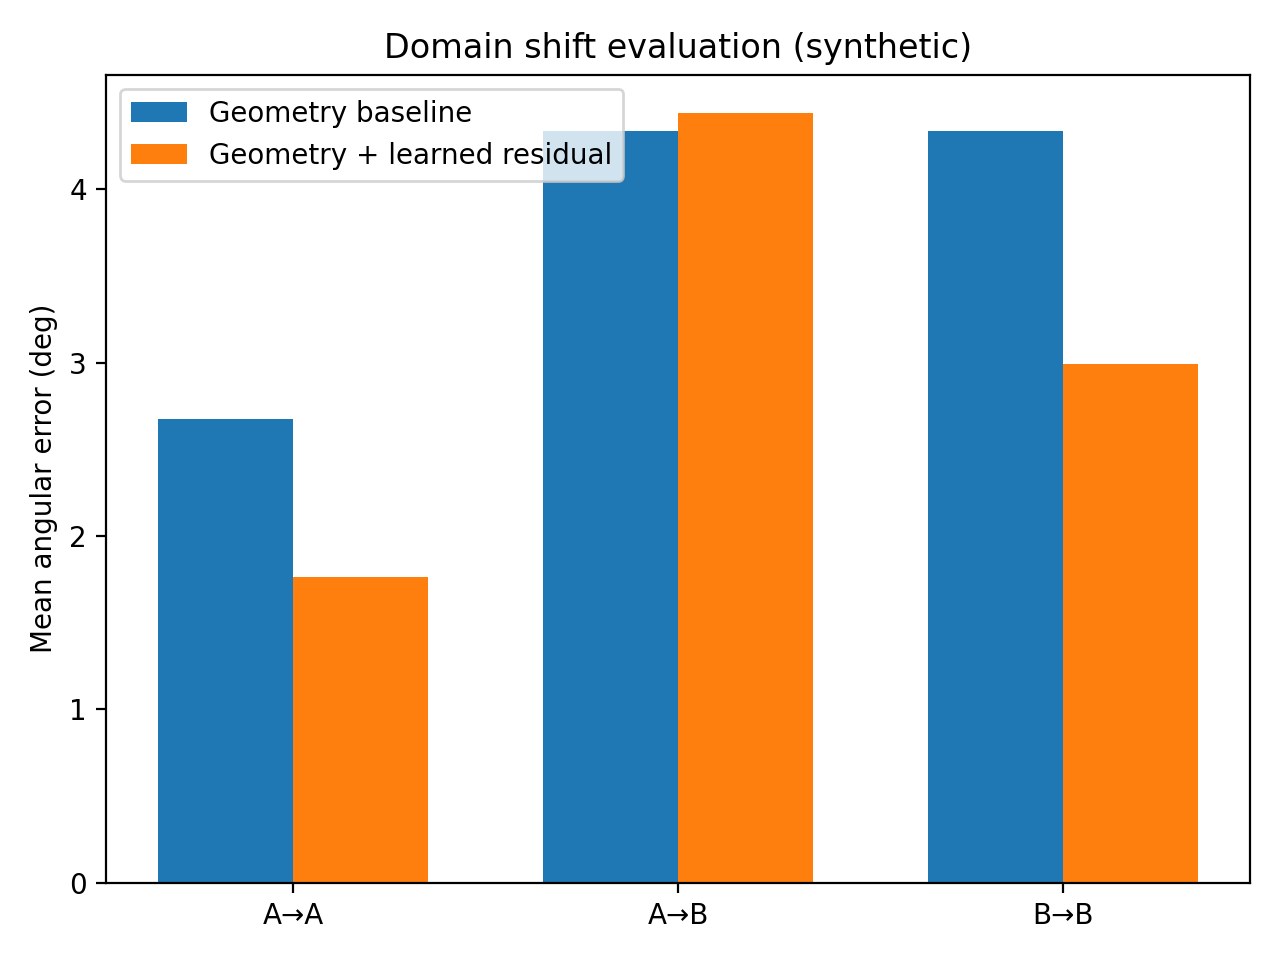
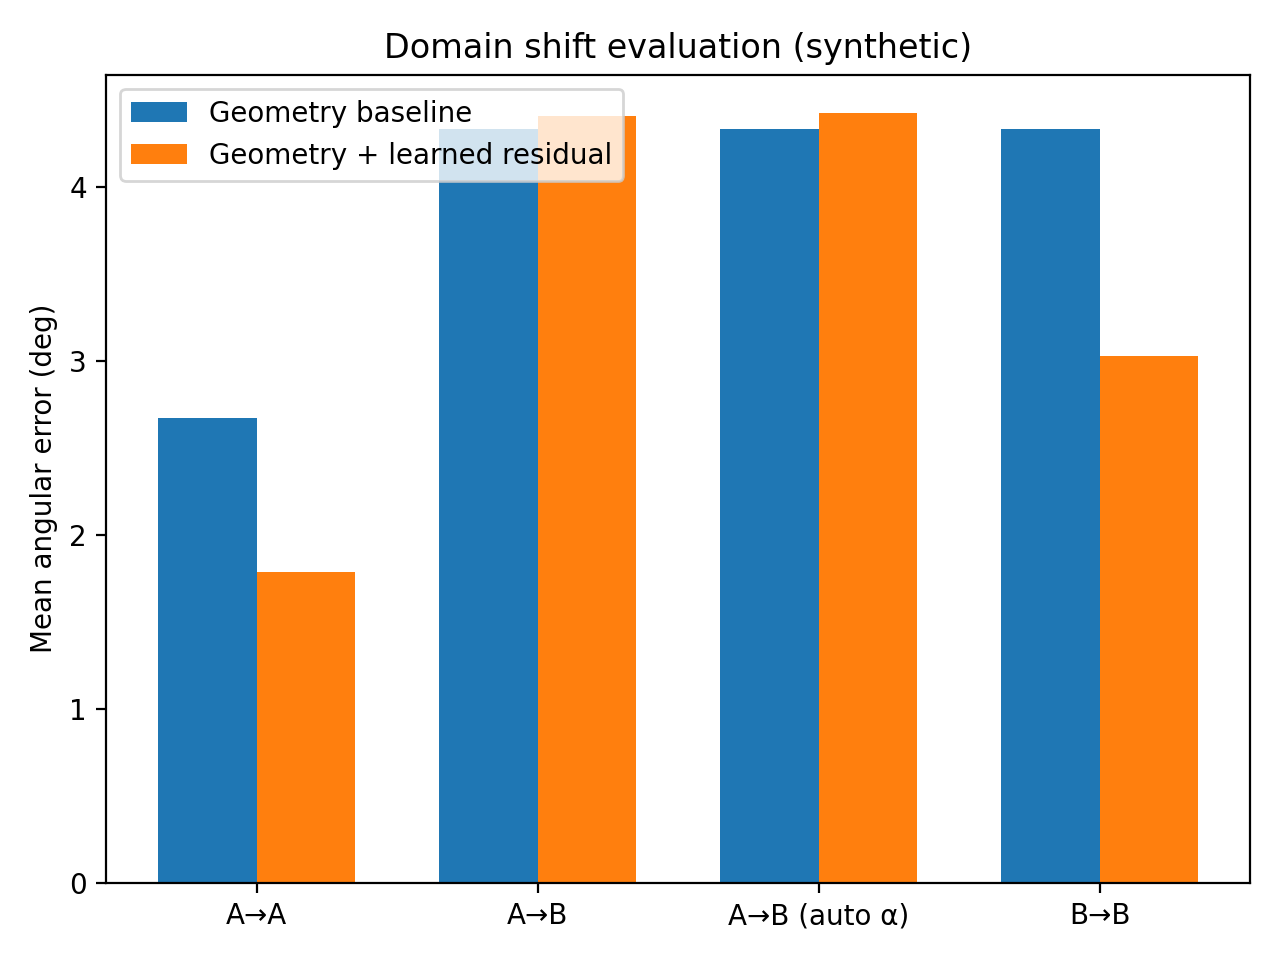
Add uncertainty-aware automatic alpha (MC dropout) to mitigate negative transfer

diff --git a/src/learning/train.py b/src/learning/train.py
@@ -64,6 +64,34 @@ def make_synth(n: int, seed: int, domain: str):
 def mean_ang_err_deg(pred_vec: np.ndarray, true_vec: np.ndarray) -> float:
     return float(angular_error_deg(pred_vec, true_vec).mean())
 
+def mc_dropout_residual(model: ResidualMLP, x: np.ndarray, n_mc: int = 20):
+    """
+    Returns mean residual and per-sample uncertainty (variance proxy) via MC dropout.
+    """
+    model.train()  # IMPORTANT: keep dropout active
+    xt = torch.from_numpy(x)
+
+    preds = []
+    with torch.no_grad():
+        for _ in range(n_mc):
+            preds.append(model(xt).numpy())
+    preds = np.stack(preds, axis=0)  # [n_mc, N, 2]
+
+    mean = preds.mean(axis=0)        # [N, 2]
+    var = preds.var(axis=0).mean(axis=1)  # [N] mean variance over yaw/pitch
+    return mean, var
+
+
+def uncertainty_to_alpha(var: np.ndarray, k: float = 30.0, floor: float = 0.0):
+    """
+    Map uncertainty (variance) to alpha in [floor, 1].
+    Higher variance -> smaller alpha.
+    alpha = 1 / (1 + k * var)
+    """
+    alpha = 1.0 / (1.0 + k * var)
+    if floor > 0:
+        alpha = np.maximum(alpha, floor)
+    return alpha
 
 def eval_bundle(x: np.ndarray, base_vec: np.ndarray, true_vec: np.ndarray, model: ResidualMLP, alpha: float = 1.0):
     """
@@ -86,6 +114,23 @@ def eval_bundle(x: np.ndarray, base_vec: np.ndarray, true_vec: np.ndarray, model
     pred_err = mean_ang_err_deg(pred_vec, true_vec)
     return base_err, pred_err
 
+def eval_bundle_auto_alpha(x: np.ndarray, base_vec: np.ndarray, true_vec: np.ndarray,
+                           model: ResidualMLP, n_mc: int = 20, k: float = 30.0):
+    """
+    Geometry baseline vs geometry + alpha(x)*residual where alpha is derived from MC-dropout uncertainty.
+    """
+    base_err = mean_ang_err_deg(base_vec, true_vec)
+
+    mean_res, var = mc_dropout_residual(model, x, n_mc=n_mc)
+    alpha = uncertainty_to_alpha(var, k=k, floor=0.0)
+
+    head_yaw, head_pitch, eye_yaw_obs, eye_pitch_obs = x.T
+    pred_vec = yaw_pitch_to_unit(
+        head_yaw + eye_yaw_obs + alpha * mean_res[:, 0],
+        head_pitch + eye_pitch_obs + alpha * mean_res[:, 1],
+    )
+    pred_err = mean_ang_err_deg(pred_vec, true_vec)
+    return base_err, pred_err, float(alpha.mean()), float(var.mean())
 
 def train_model(x_tr: np.ndarray, y_tr: np.ndarray, epochs: int = 6) -> ResidualMLP:
     ds = TensorDataset(torch.from_numpy(x_tr), torch.from_numpy(y_tr))
@@ -150,6 +195,17 @@ def plot_ab_damping(ab_sweep, out_path: str):
     plt.tight_layout()
     plt.savefig(out_path, dpi=200)
     plt.close()
+    
+def plot_alpha_hist(alpha: np.ndarray, out_path: str):
+    import matplotlib.pyplot as plt
+    plt.figure()
+    plt.hist(alpha, bins=60, alpha=0.85)
+    plt.xlabel("alpha")
+    plt.ylabel("count")
+    plt.title("Uncertainty-aware alpha distribution (A→B)")
+    plt.tight_layout()
+    plt.savefig(out_path, dpi=200)
+    plt.close()
 
 def main():
     os.makedirs("figures", exist_ok=True)
@@ -169,7 +225,18 @@ def main():
     res["A→A"] = eval_bundle(xA_te, baseA_te, trueA_te, modelA)
     res["A→B"] = eval_bundle(xB_te, baseB_te, trueB_te, modelA)
     
-     # Damping sweep for domain shift A→B
+    # Uncertainty-aware automatic alpha for A→B
+    b_auto, p_auto, alpha_mean, var_mean = eval_bundle_auto_alpha(
+        xB_te, baseB_te, trueB_te, modelA, n_mc=20, k=30.0
+    )
+    res["A→B (auto α)"] = (b_auto, p_auto)
+    
+    # Recompute alpha for plotting
+    mean_res, var = mc_dropout_residual(modelA, xB_te, n_mc=20)
+    alpha = uncertainty_to_alpha(var, k=30.0)
+    plot_alpha_hist(alpha, "figures/auto_alpha_hist.png")
+    
+    # Damping sweep for domain shift A→B
     alphas = [0.0, 0.25, 0.5, 0.75, 1.0]
     ab_sweep = {}
     for a in alphas:
@@ -190,6 +257,8 @@ def main():
         for a, (b, p) in ab_sweep.items():
             f.write(f"A→B_alpha={a:.2f}_baseline_deg={b:.6f}\n")
             f.write(f"A→B_alpha={a:.2f}_geom_plus_residual_deg={p:.6f}\n")
+        f.write(f"A→B_auto_alpha_mean={alpha_mean:.6f}\n")
+        f.write(f"A→B_auto_var_mean={var_mean:.6f}\n")
 
     # Keep the previous histogram for A→A (nice distribution view)
     base_err = angular_error_deg(baseA_te, trueA_te)

diff --git a/src/learning/model.py b/src/learning/model.py
@@ -3,16 +3,18 @@ import torch.nn as nn
 
 class ResidualMLP(nn.Module):
     """
-    Predicts small residual correction (delta_yaw, delta_pitch) on top of geometry baseline.
-    Input features: [head_yaw, head_pitch, eye_yaw, eye_pitch]
+    Predicts small residual correction (delta_yaw, delta_pitch).
+    Includes dropout to enable MC-dropout uncertainty at inference time.
     """
-    def __init__(self, hidden: int = 64):
+    def __init__(self, hidden: int = 64, p_drop: float = 0.15):
         super().__init__()
         self.net = nn.Sequential(
             nn.Linear(4, hidden),
             nn.ReLU(),
+            nn.Dropout(p_drop),
             nn.Linear(hidden, hidden),
             nn.ReLU(),
+            nn.Dropout(p_drop),
             nn.Linear(hidden, 2),
         )
 

diff --git a/README.md b/README.md
@@ -78,6 +78,13 @@ We mitigate this by damping the residual: **prediction = geometry + α · residu
 
 ![A→B damping](figures/ab_damping.png)
 
+### Automatic residual damping via uncertainty (MC dropout)
+Under domain shift, a residual trained on Domain A can overcorrect on Domain B.  
+We estimate prediction uncertainty using **MC dropout** and set **α(x) = 1 / (1 + k·Var(residual))**.  
+Higher uncertainty → smaller α → safer reliance on geometry.
+
+![Auto alpha histogram](figures/auto_alpha_hist.png)
+
 ## Synthetic-to-real training pipeline
 The figure below summarizes a practical way to use synthetic data: **pretrain → adapt → evaluate**.
 
